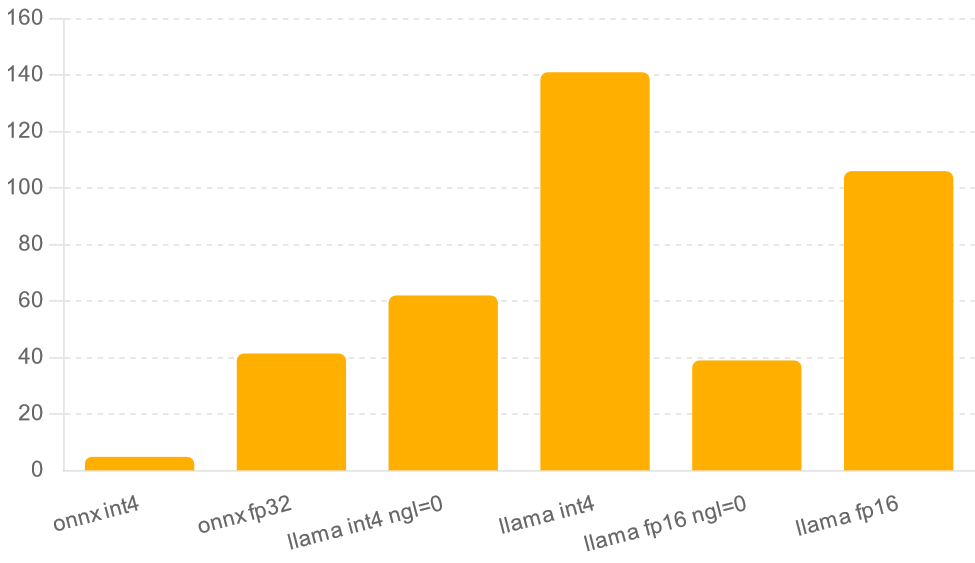
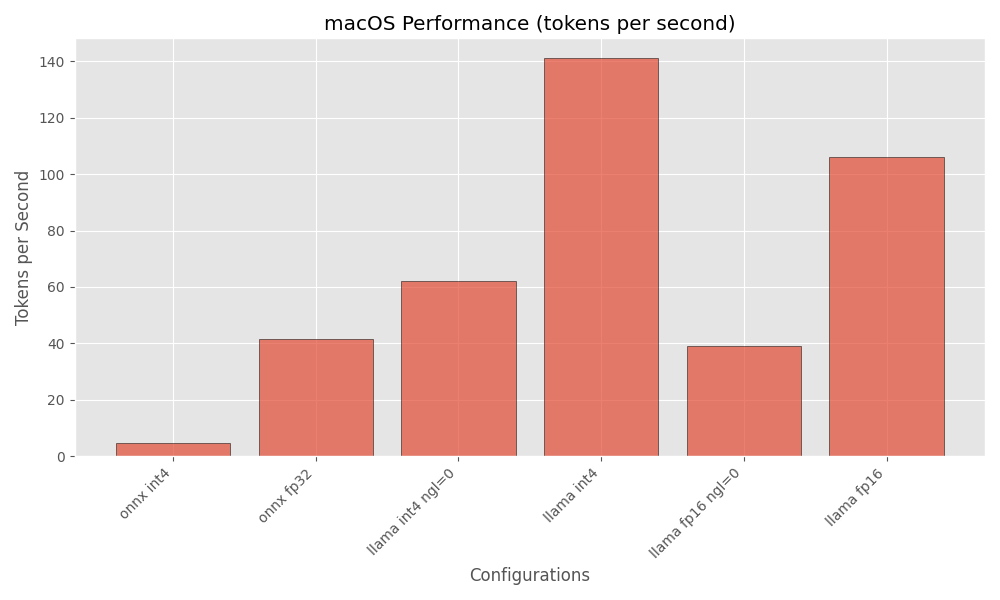
charts

diff --git a/chart.py b/chart.py
@@ -1,0 +1,38 @@
+import json
+import matplotlib.pyplot as plt
+
+plt.style.use('ggplot')
+
+# Load data from JSON file
+with open("results.json") as file:
+    data = json.load(file)
+
+# macOS data
+macos_labels = list(data["macOS"].keys())
+macos_values = list(data["macOS"].values())
+
+# Windows 11 data
+windows_labels = list(data["Windows11"].keys())
+windows_values = list(data["Windows11"].values())
+
+# Create macOS histogram
+plt.figure(figsize=(10, 6))
+plt.bar(macos_labels, macos_values, alpha=0.7, edgecolor='black')
+plt.title("macOS Performance (tokens per second)")
+plt.xlabel("Configurations")
+plt.ylabel("Tokens per Second")
+plt.xticks(rotation=45, ha='right')
+plt.tight_layout()
+plt.savefig("macos.png")  # Save the figure as a PNG file
+plt.close()  # Close the figure to avoid overlapping with the next one
+
+# Create Windows 11 histogram
+plt.figure(figsize=(10, 6))
+plt.bar(windows_labels, windows_values, alpha=0.7, edgecolor='black')
+plt.title("Windows 11 Performance (tokens per second)")
+plt.xlabel("Configurations")
+plt.ylabel("Tokens per Second")
+plt.xticks(rotation=45, ha='right')
+plt.tight_layout()
+plt.savefig("win11.png")  # Save the figure as a PNG file
+plt.close()  # Close the figure to avoid overlap
